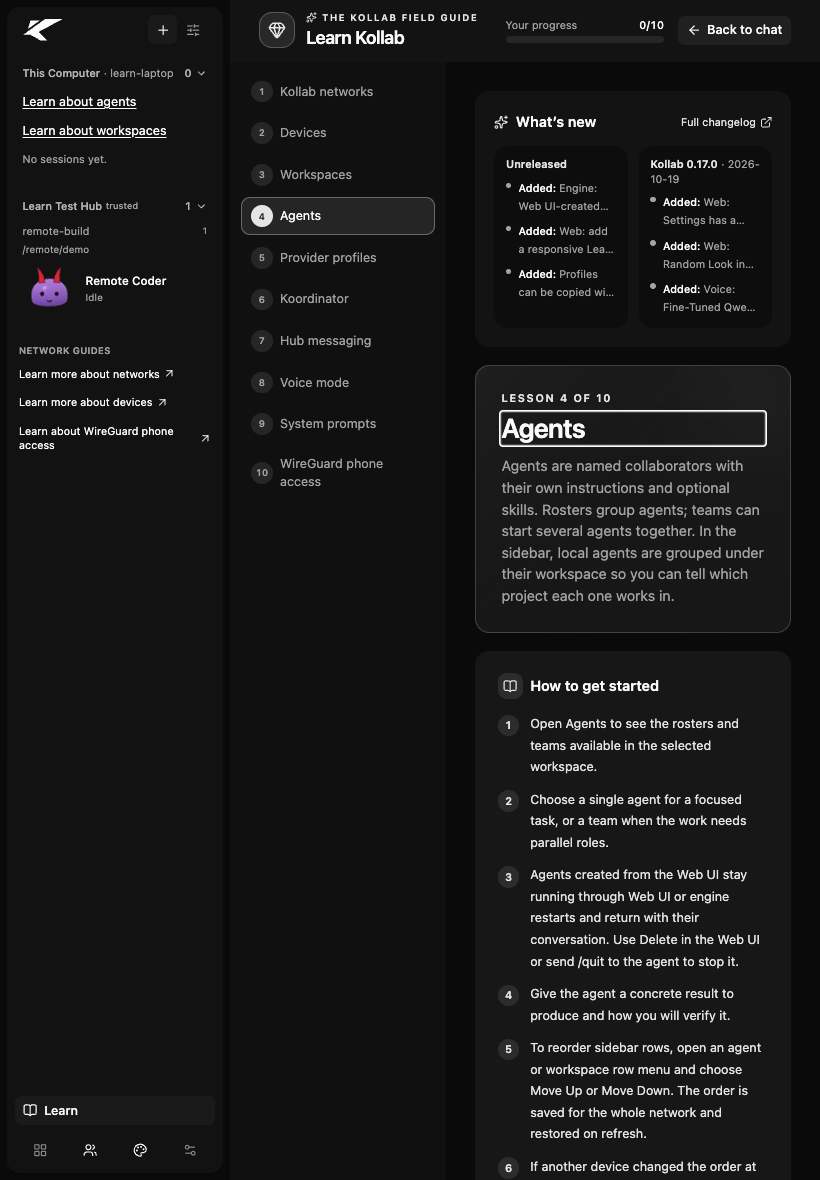
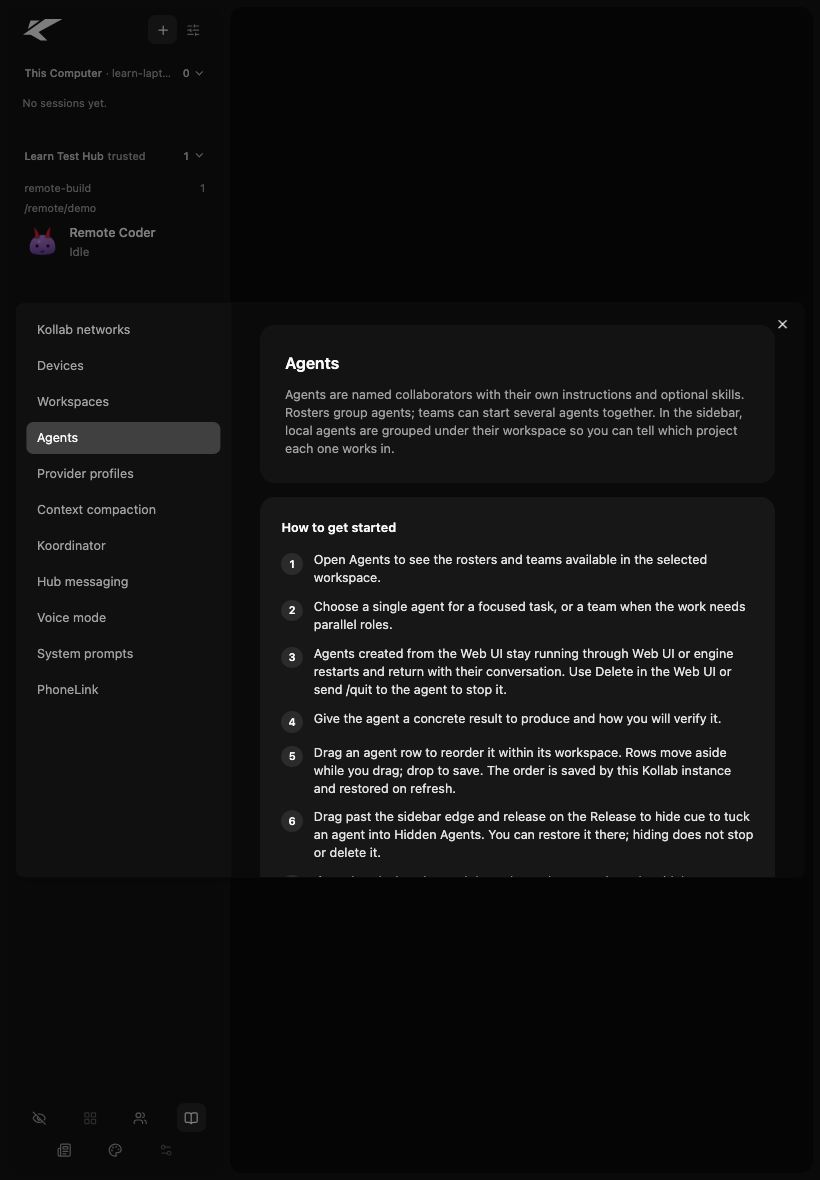
feat(webui): Learn topic menu shows completed topics, refresh stale acceptance flow, refs #285

diff --git a/packages/kollabor-webui/frontend/src/components/learn/LearnPage.tsx b/packages/kollabor-webui/frontend/src/components/learn/LearnPage.tsx
@@ -1,7 +1,8 @@
-import { useEffect, useRef } from "react";
+import { useEffect, useRef, useState } from "react";
 import { CircleAlert, RefreshCw, X } from "lucide-react";
 import { Button } from "@/components/ui/button";
 import { TooltipIconButton } from "@/components/assistant-ui/tooltip-icon-button";
+import { markCompleted, readCompleted } from "@/learn/completed";
 import { getLearnTopic, LEARN_TOPICS, type LearnRoute, type LearnTopicId } from "@/learn/catalog";
 
 type LearnPageProps = {
@@ -14,6 +15,12 @@ export function LearnPage({ route, onNavigate, onExit }: LearnPageProps) {
   const topicHeadingRef = useRef<HTMLHeadingElement>(null);
   const topicScrollRef = useRef<HTMLDivElement>(null);
   const topic = route.kind === "topic" ? getLearnTopic(route.topicId) : null;
+  const [completed, setCompleted] = useState(readCompleted);
+  // Moving on from a topic counts as finishing it.
+  const goTo = (id: LearnTopicId) => {
+    if (topic && topic.id !== id) setCompleted((done) => markCompleted(topic.id, done));
+    onNavigate(id);
+  };
 
   useEffect(() => {
     topicScrollRef.current?.scrollTo({ top: 0 });
@@ -35,12 +42,16 @@ export function LearnPage({ route, onNavigate, onExit }: LearnPageProps) {
                 variant="ghost"
                 size="sm"
                 aria-current={topic?.id === item.id ? "page" : undefined}
-                onClick={() => onNavigate(item.id)}
+                onClick={() => goTo(item.id)}
                 className={`h-auto min-h-9 justify-start px-3 py-2 text-left font-normal md:w-full ${
                   topic?.id === item.id ? "bg-accent text-accent-foreground" : "text-muted-foreground hover:text-foreground"
                 }`}
               >
                 <span className="min-w-0 whitespace-nowrap md:whitespace-normal">{item.title}</span>
+                {completed.includes(item.id) ? (
+                  <span aria-hidden="true" className="ml-auto pl-2 text-xs opacity-60">✓</span>
+                ) : null}
+                {completed.includes(item.id) ? <span className="sr-only"> (completed)</span> : null}
               </Button>
             ))}
           </div>

diff --git a/packages/kollabor-webui/frontend/tests/learn-completed.test.ts b/packages/kollabor-webui/frontend/tests/learn-completed.test.ts
@@ -1,0 +1,25 @@
+import assert from "node:assert/strict";
+import test from "node:test";
+import { markCompleted, readCompleted } from "../src/learn/completed.ts";
+
+function memory(initial?: string) {
+  let v = initial ?? null;
+  return { getItem: () => v, setItem: (_: string, x: string) => { v = x; } };
+}
+
+test("marks once and persists", () => {
+  const s = memory();
+  let done = markCompleted("agents", readCompleted(s), s);
+  done = markCompleted("agents", done, s);
+  assert.deepEqual(done, ["agents"]);
+  assert.deepEqual(readCompleted(s), ["agents"]);
+});
+
+test("corrupt or unavailable storage reads empty and still marks", () => {
+  assert.deepEqual(readCompleted(memory("{nope")), []);
+  assert.deepEqual(readCompleted(memory('{"a":1}')), []);
+  assert.deepEqual(readCompleted(null), []);
+  const throwing = { getItem: () => { throw new Error("x"); }, setItem: () => { throw new Error("x"); } };
+  assert.deepEqual(readCompleted(throwing), []);
+  assert.deepEqual(markCompleted("voice", [], throwing), ["voice"]);
+});

diff --git a/packages/kollabor-webui/frontend/src/learn/completed.ts b/packages/kollabor-webui/frontend/src/learn/completed.ts
@@ -1,0 +1,33 @@
+const KEY = "kollab.learn.completed";
+
+type Store = Pick<Storage, "getItem" | "setItem">;
+
+function store(): Store | null {
+  try {
+    return globalThis.localStorage ?? null;
+  } catch {
+    return null;
+  }
+}
+
+/** Topic ids this viewer has finished; empty when storage is unavailable or corrupt. */
+export function readCompleted(s: Store | null = store()): string[] {
+  try {
+    const parsed: unknown = JSON.parse(s?.getItem(KEY) ?? "[]");
+    return Array.isArray(parsed) ? parsed.filter((id): id is string => typeof id === "string") : [];
+  } catch {
+    return [];
+  }
+}
+
+/** Returns the new list; the write is best effort so the menu still updates without storage. */
+export function markCompleted(id: string, current: string[], s: Store | null = store()): string[] {
+  if (current.includes(id)) return current;
+  const next = [...current, id];
+  try {
+    s?.setItem(KEY, JSON.stringify(next));
+  } catch {
+    // storage blocked: completion lasts for this page view only
+  }
+  return next;
+}
